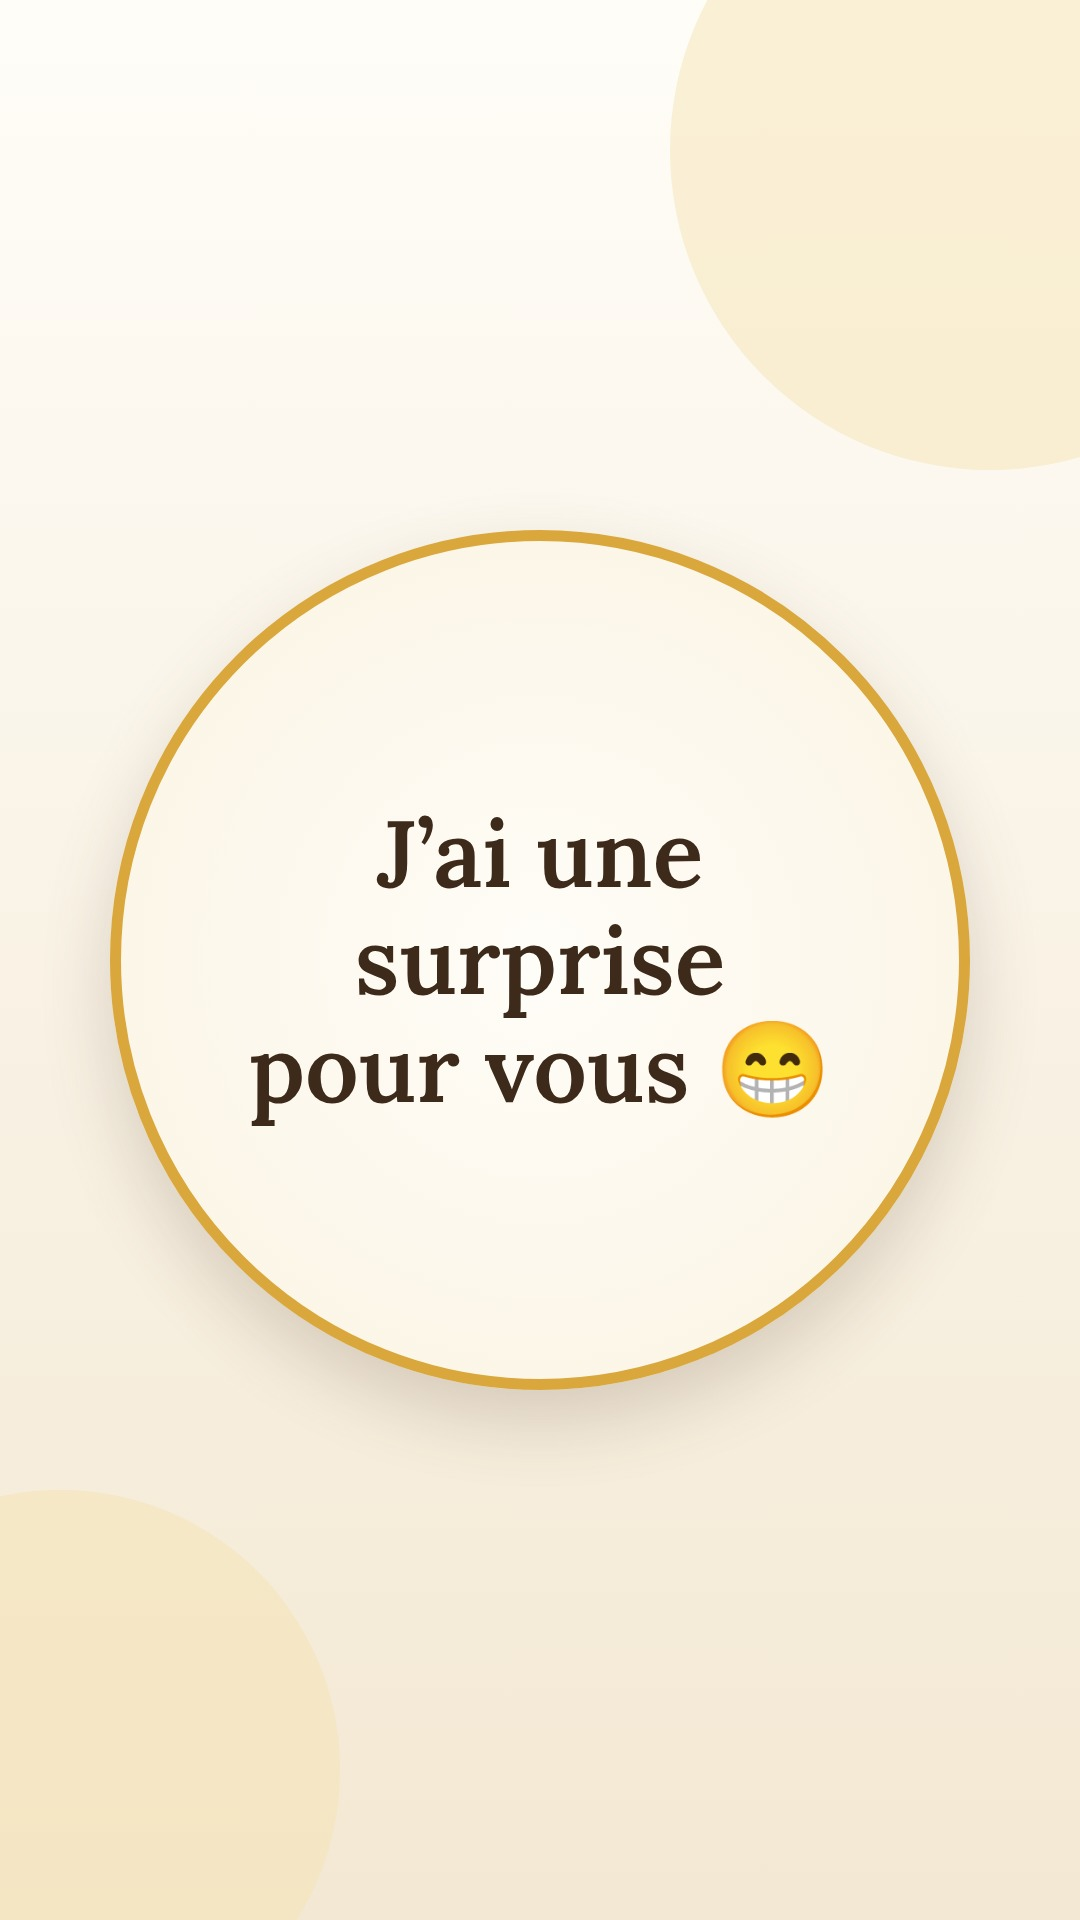
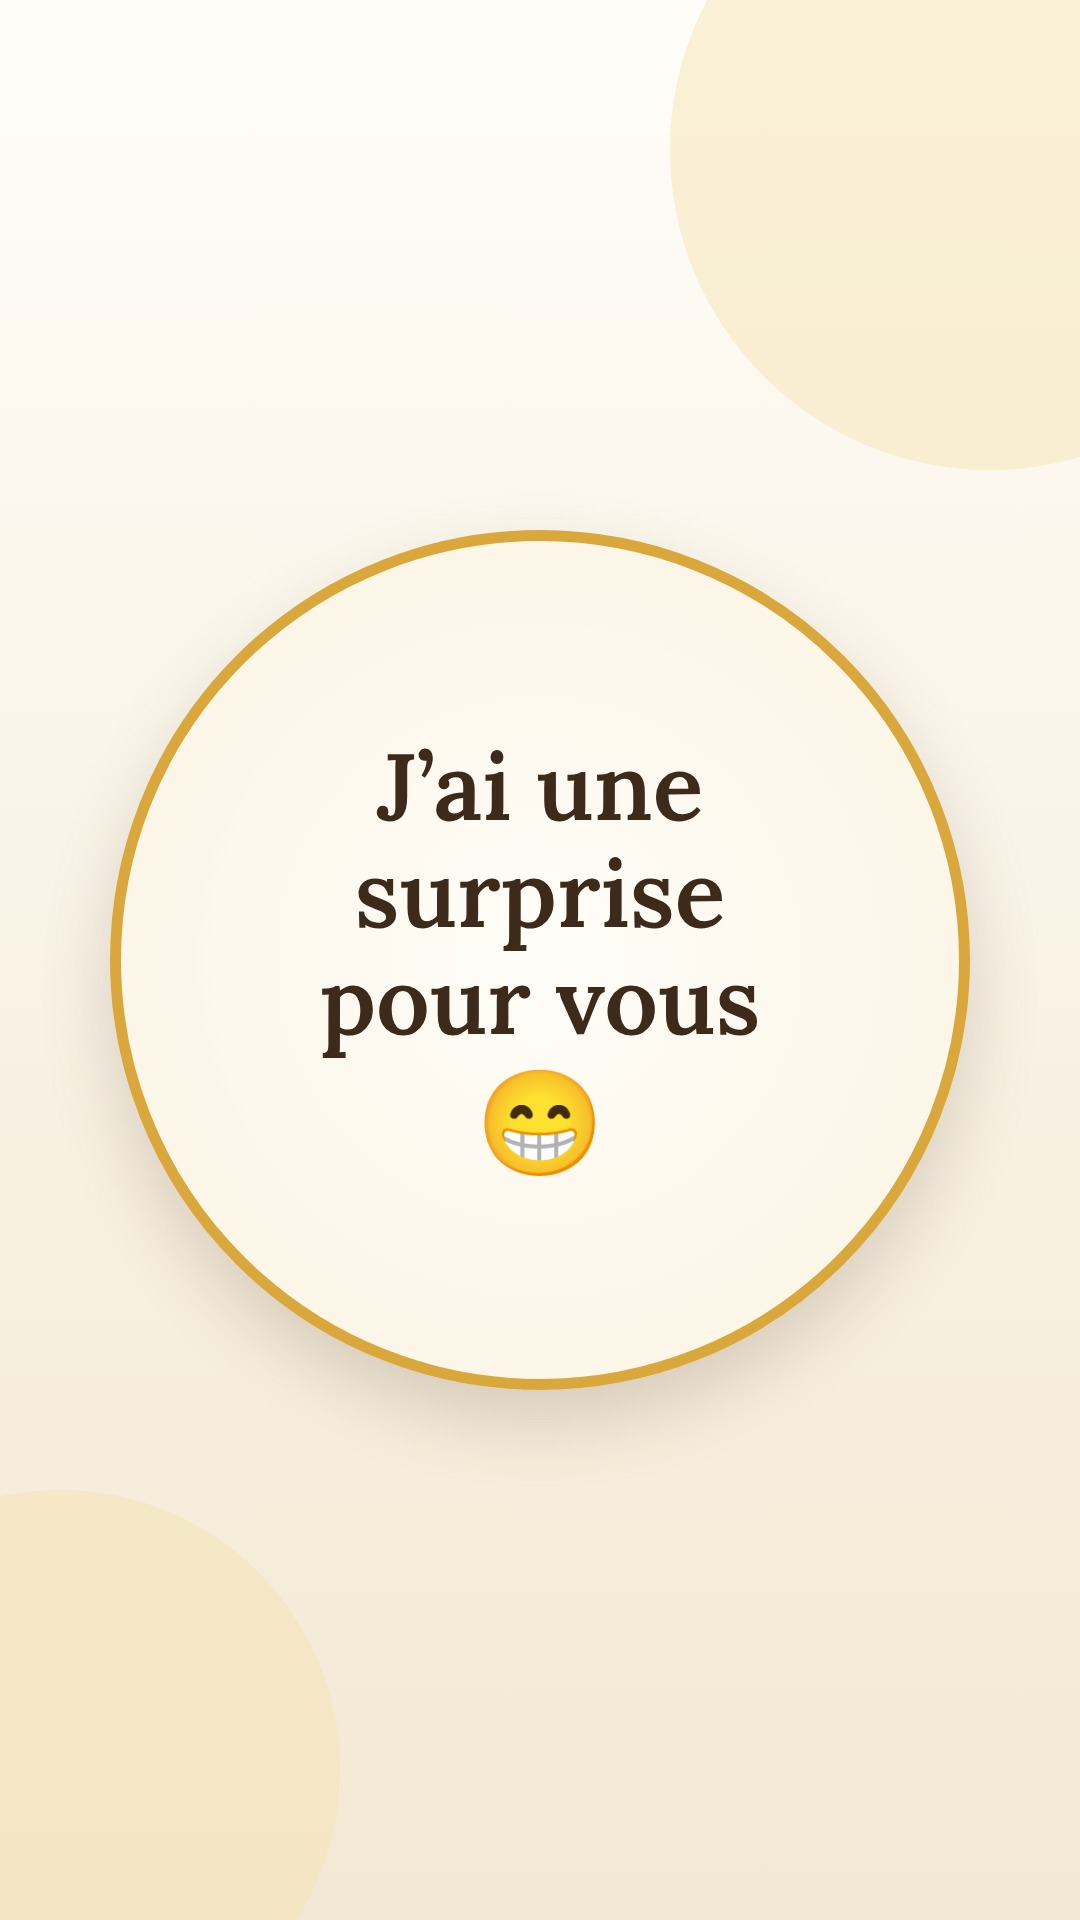
Story surprise : smiley sous le texte
Claude-Session: https://claude.ai/code/session_01FhKW6d7NffjTyYvYf6zG3G

Changed region(s): [[0.2139, 0.375, 0.7639, 0.625]]

diff --git a/graphisme/sources/73-story-surprise.html b/graphisme/sources/73-story-surprise.html
@@ -44,7 +44,7 @@ body{width:var(--w);height:var(--h);overflow:hidden;background:var(--creme);colo
 <div class="page">
   <div class="deco" style="width:640px;height:640px;right:-230px;top:-170px"></div>
   <div class="deco" style="width:560px;height:560px;left:-220px;bottom:-130px"></div>
-  <div class="anneau"><h1 class="titre">J’ai une<br>surprise<br><span style="white-space:nowrap">pour vous 😁</span></h1></div>
+  <div class="anneau"><h1 class="titre">J’ai une<br>surprise<br>pour vous<br><span style="font-size:1.1em;line-height:1.3">😁</span></h1></div>
 </div>
 </body>
 </html>

diff --git a/graphisme/generer.js b/graphisme/generer.js
@@ -1191,7 +1191,7 @@ PAGES.push({
     body: `<div class="page">
   <div class="deco" style="width:640px;height:640px;right:-230px;top:-170px"></div>
   <div class="deco" style="width:560px;height:560px;left:-220px;bottom:-130px"></div>
-  <div class="anneau"><h1 class="titre">J’ai une<br>surprise<br><span style="white-space:nowrap">pour vous 😁</span></h1></div>
+  <div class="anneau"><h1 class="titre">J’ai une<br>surprise<br>pour vous<br><span style="font-size:1.1em;line-height:1.3">😁</span></h1></div>
 </div>` }),
 });
 
